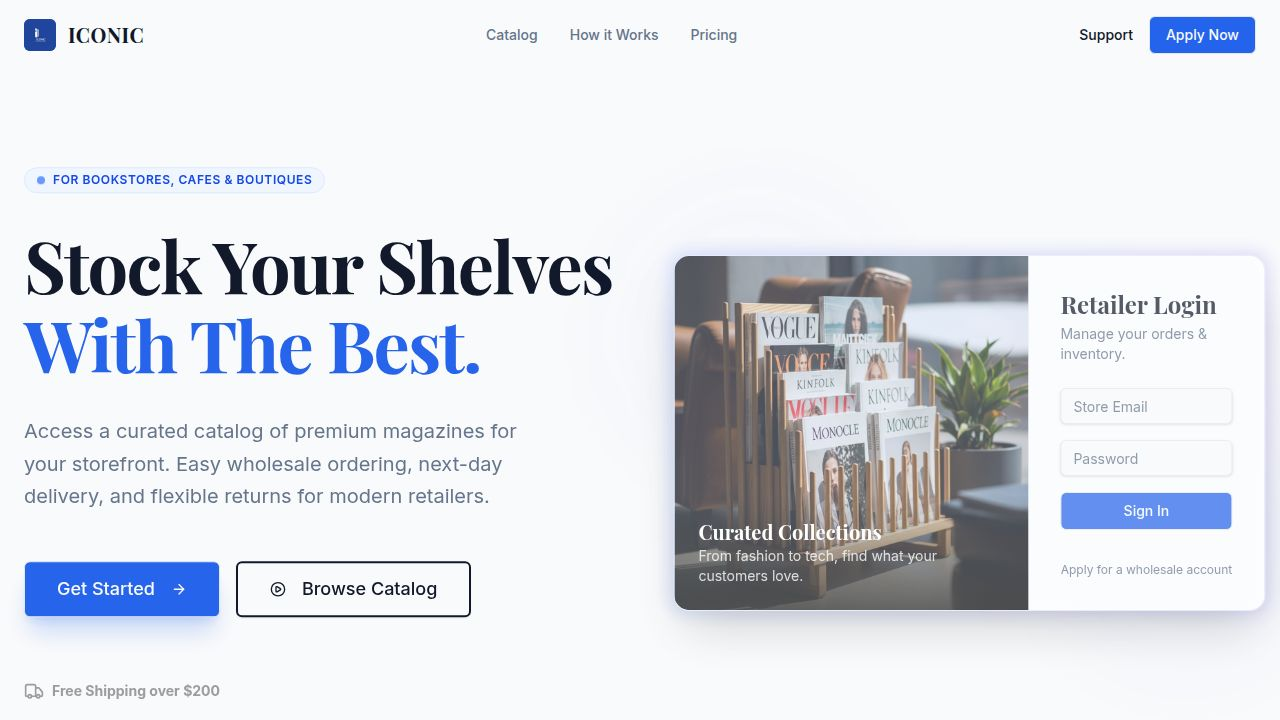
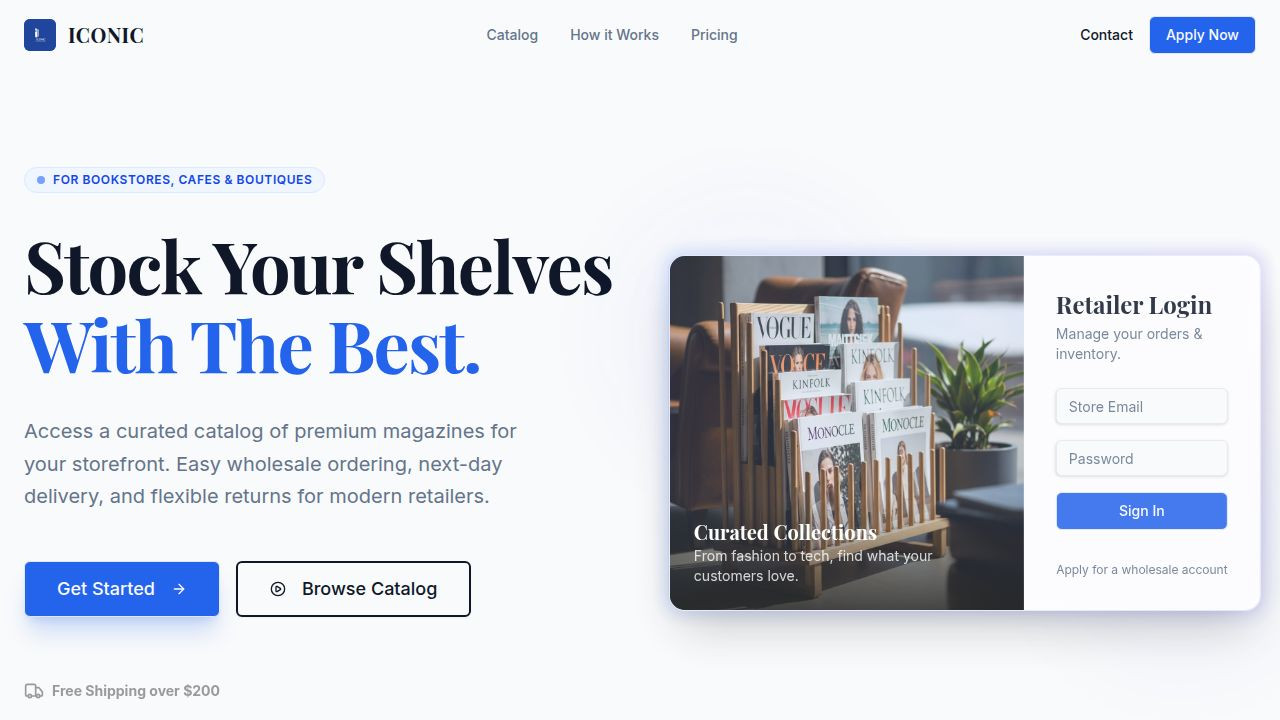
Update "Apply for account" links to direct users to the application page
Corrected three instances of "Apply for account" buttons and links on the How It Works page to navigate to `/apply` instead of `/login`.

Replit-Commit-Author: Agent
Replit-Commit-Session-Id: 35472397-a1c4-442b-96af-bf63b148a5ef
Replit-Commit-Checkpoint-Type: full_checkpoint
Replit-Commit-Event-Id: 1cf455d9-630f-4e0f-9dec-4581503c2c71
Replit-Commit-Screenshot-Url: https://storage.googleapis.com/screenshot-production-us-central1/b063a2f3-ec9e-4174-b459-1a5ba9bf1238/35472397-a1c4-442b-96af-bf63b148a5ef/7rGgaQP
Replit-Helium-Checkpoint-Created: true

diff --git a/client/src/pages/HowItWorks.tsx b/client/src/pages/HowItWorks.tsx
@@ -47,7 +47,7 @@ export default function HowItWorks() {
               <Button
                 size="lg"
                 className="h-12 px-8 shadow-lg shadow-primary/20 bg-primary hover:bg-primary/90 transition-all hover:translate-y-[-2px]"
-                onClick={() => setLocation("/login")}
+                onClick={() => setLocation("/apply")}
                 data-testid="button-apply-hero"
               >
                 Apply for an Account <ArrowRight className="ml-2 h-5 w-5" />
@@ -211,7 +211,7 @@ export default function HowItWorks() {
               size="lg"
               variant="secondary"
               className="h-12 px-10 text-primary font-semibold hover:bg-white/90 transition-all hover:translate-y-[-2px] shadow-lg"
-              onClick={() => setLocation("/login")}
+              onClick={() => setLocation("/apply")}
               data-testid="button-apply-cta"
             >
               Apply for an Account <ArrowRight className="ml-2 h-5 w-5" />
@@ -234,7 +234,7 @@ export default function HowItWorks() {
             <div>
               <h4 className="text-white font-bold mb-4">Retailers</h4>
               <ul className="space-y-2 text-sm">
-                <li><a href="/login" className="hover:text-white transition-colors">Apply for Account</a></li>
+                <li><a href="/apply" className="hover:text-white transition-colors">Apply for Account</a></li>
                 <li><a href="/browse-catalog" className="hover:text-white transition-colors">Catalog</a></li>
                 <li><a href="/how-it-works" className="hover:text-white transition-colors">How it Works</a></li>
               </ul>